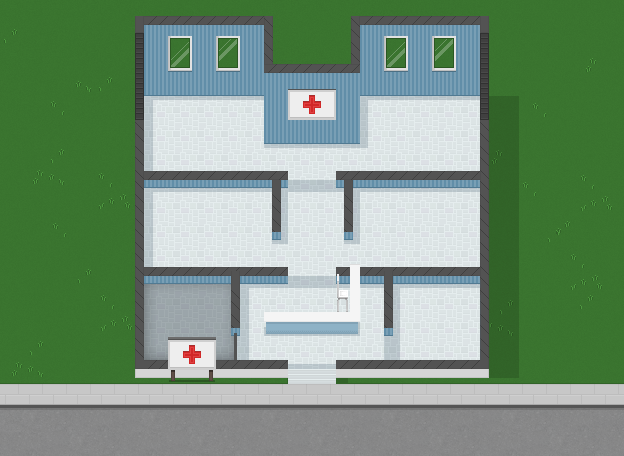
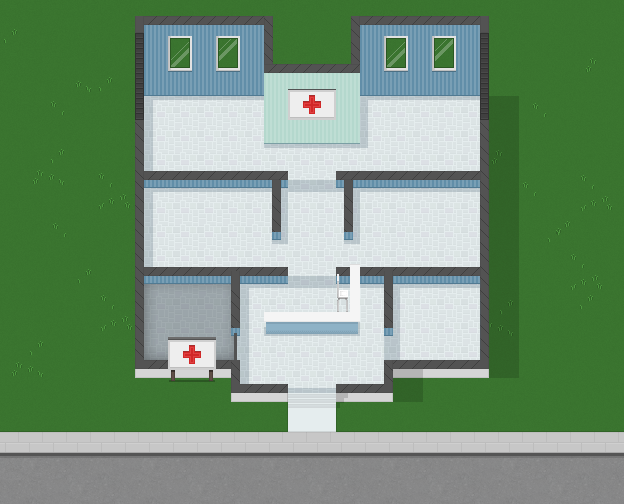
new hospital layout

diff --git a/src/game/Level.js b/src/game/Level.js
@@ -21,7 +21,9 @@ function Level() {
         + '-----w---w----w-w---w-----\n'
         + '-----w---w-wwww-w-f-w-----\n'
         + '-----w---w-rrrr-----w-----\n'
+        + '-----wwwww------wwwww-----\n'
         + '-----wwwwwww--wwwwwww-----\n'
+        + '--------------------------\n'
         + 's------------------------s\n'
         + '--------------------------\n'
         + '--------------------------',
